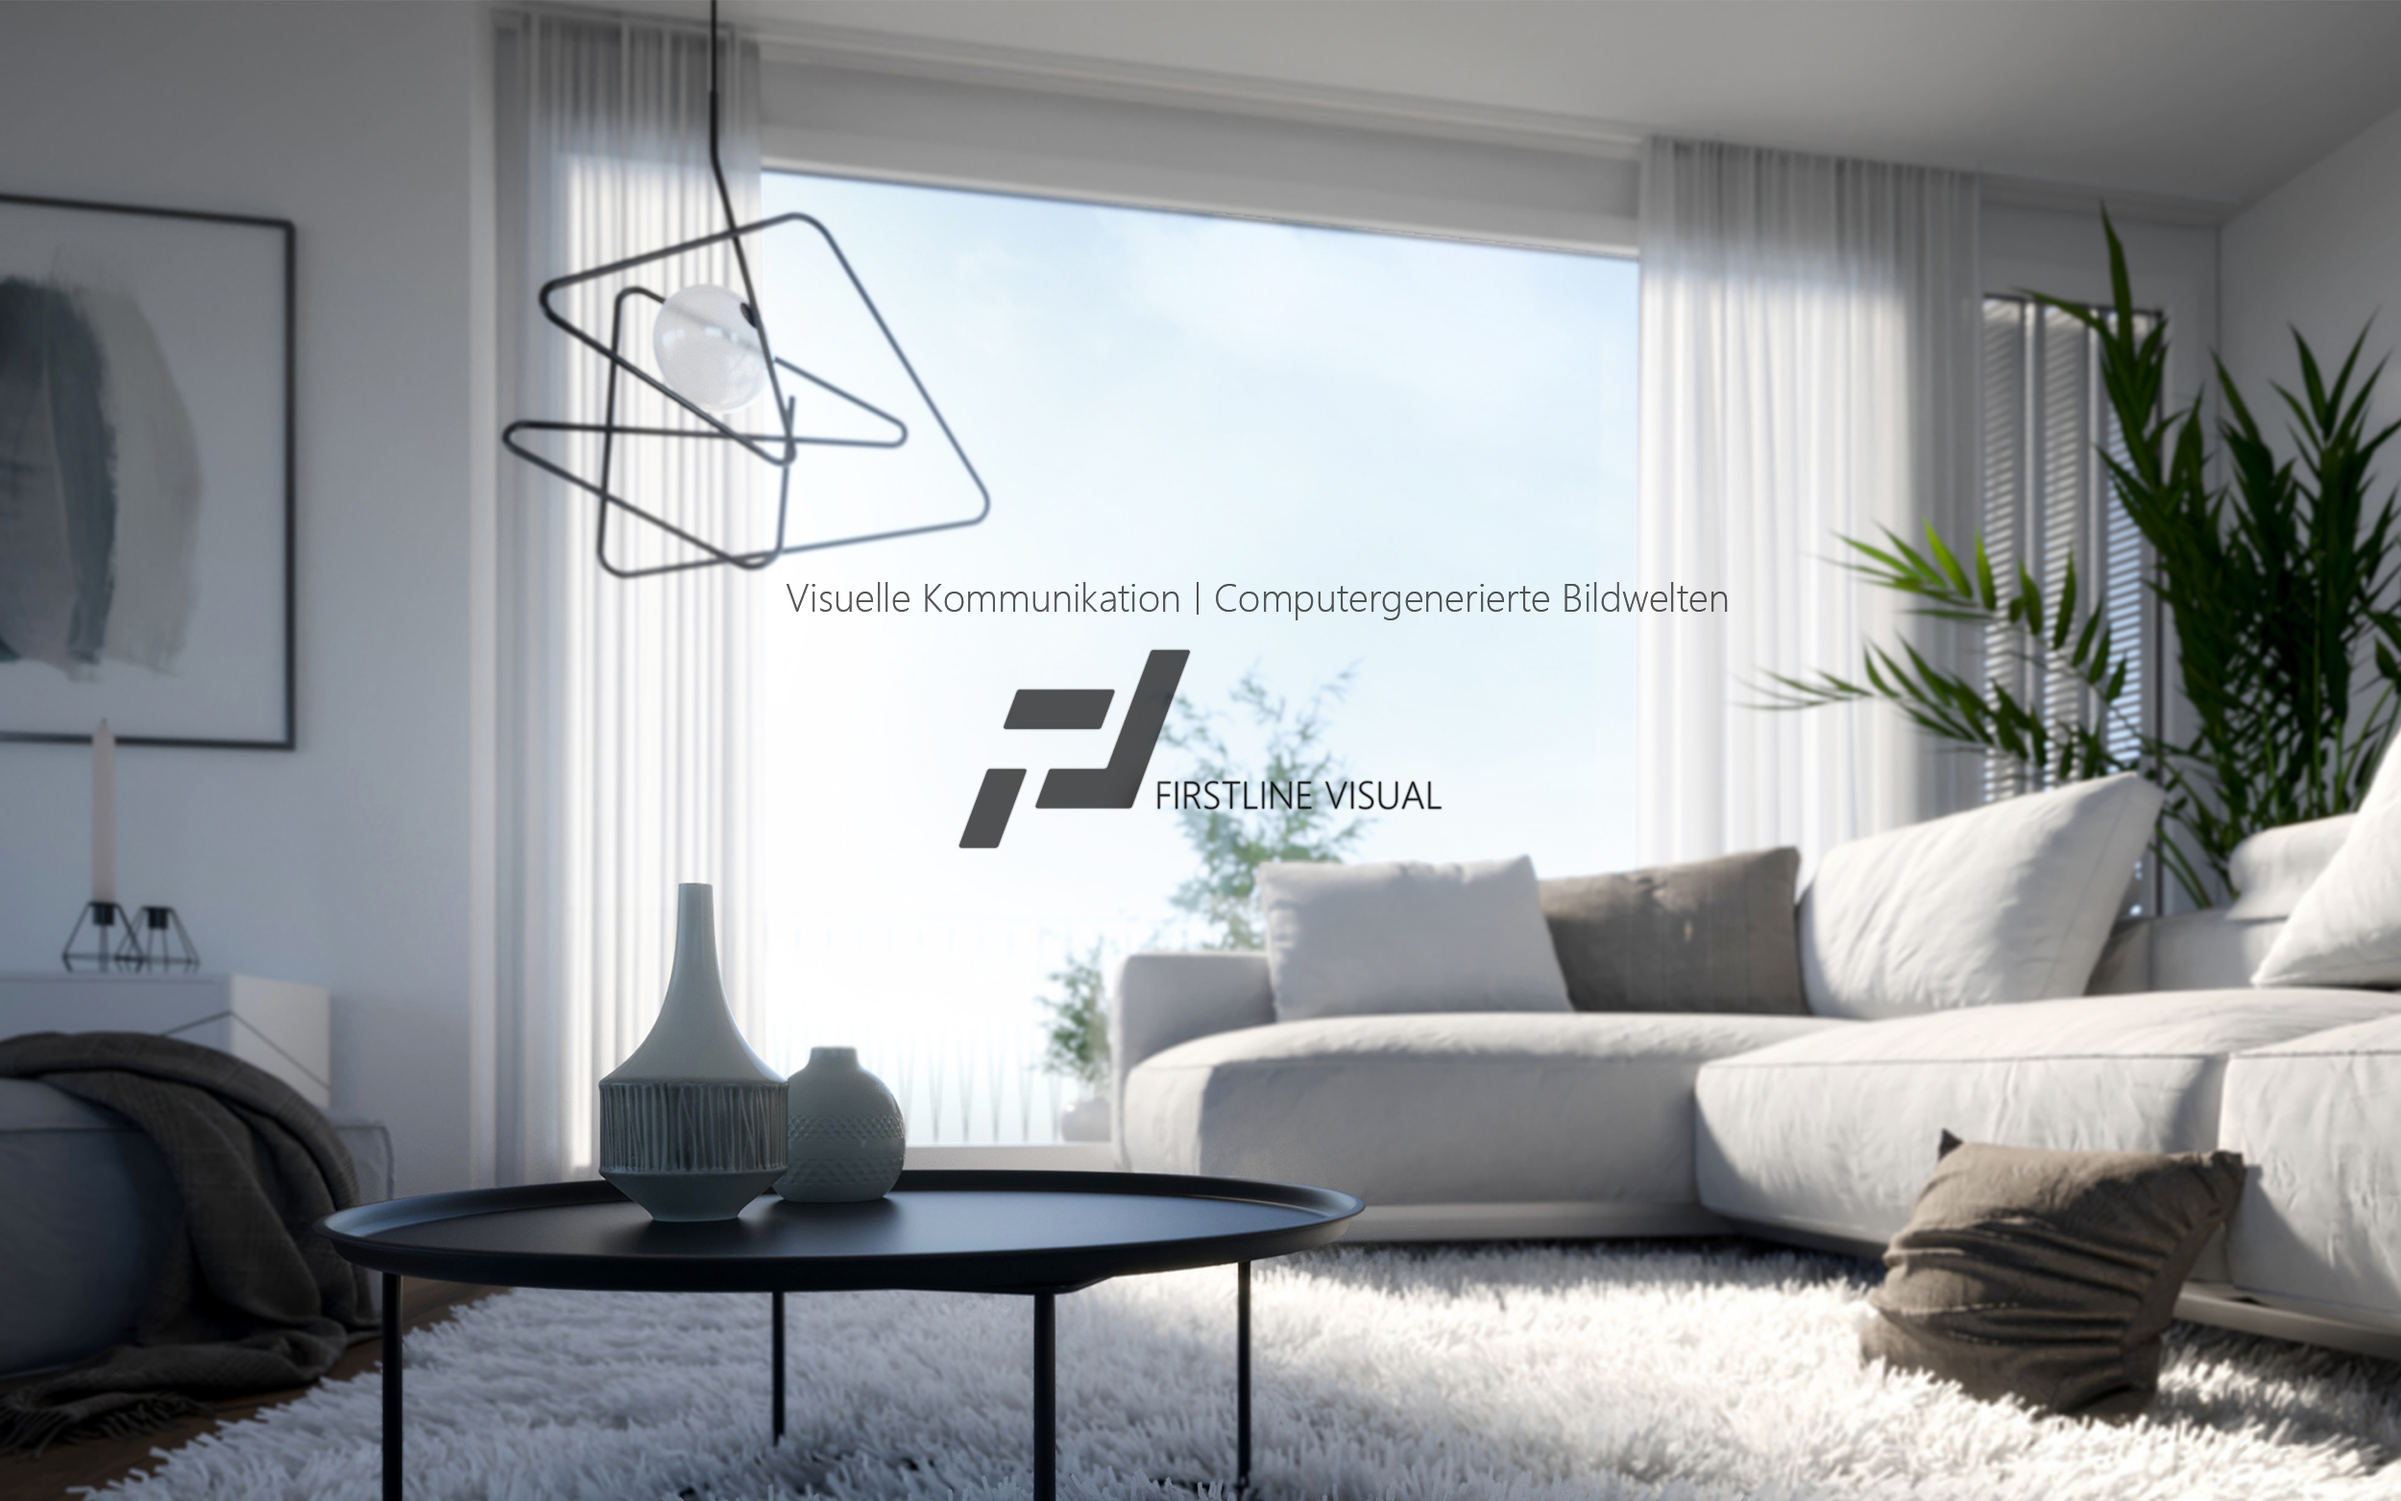
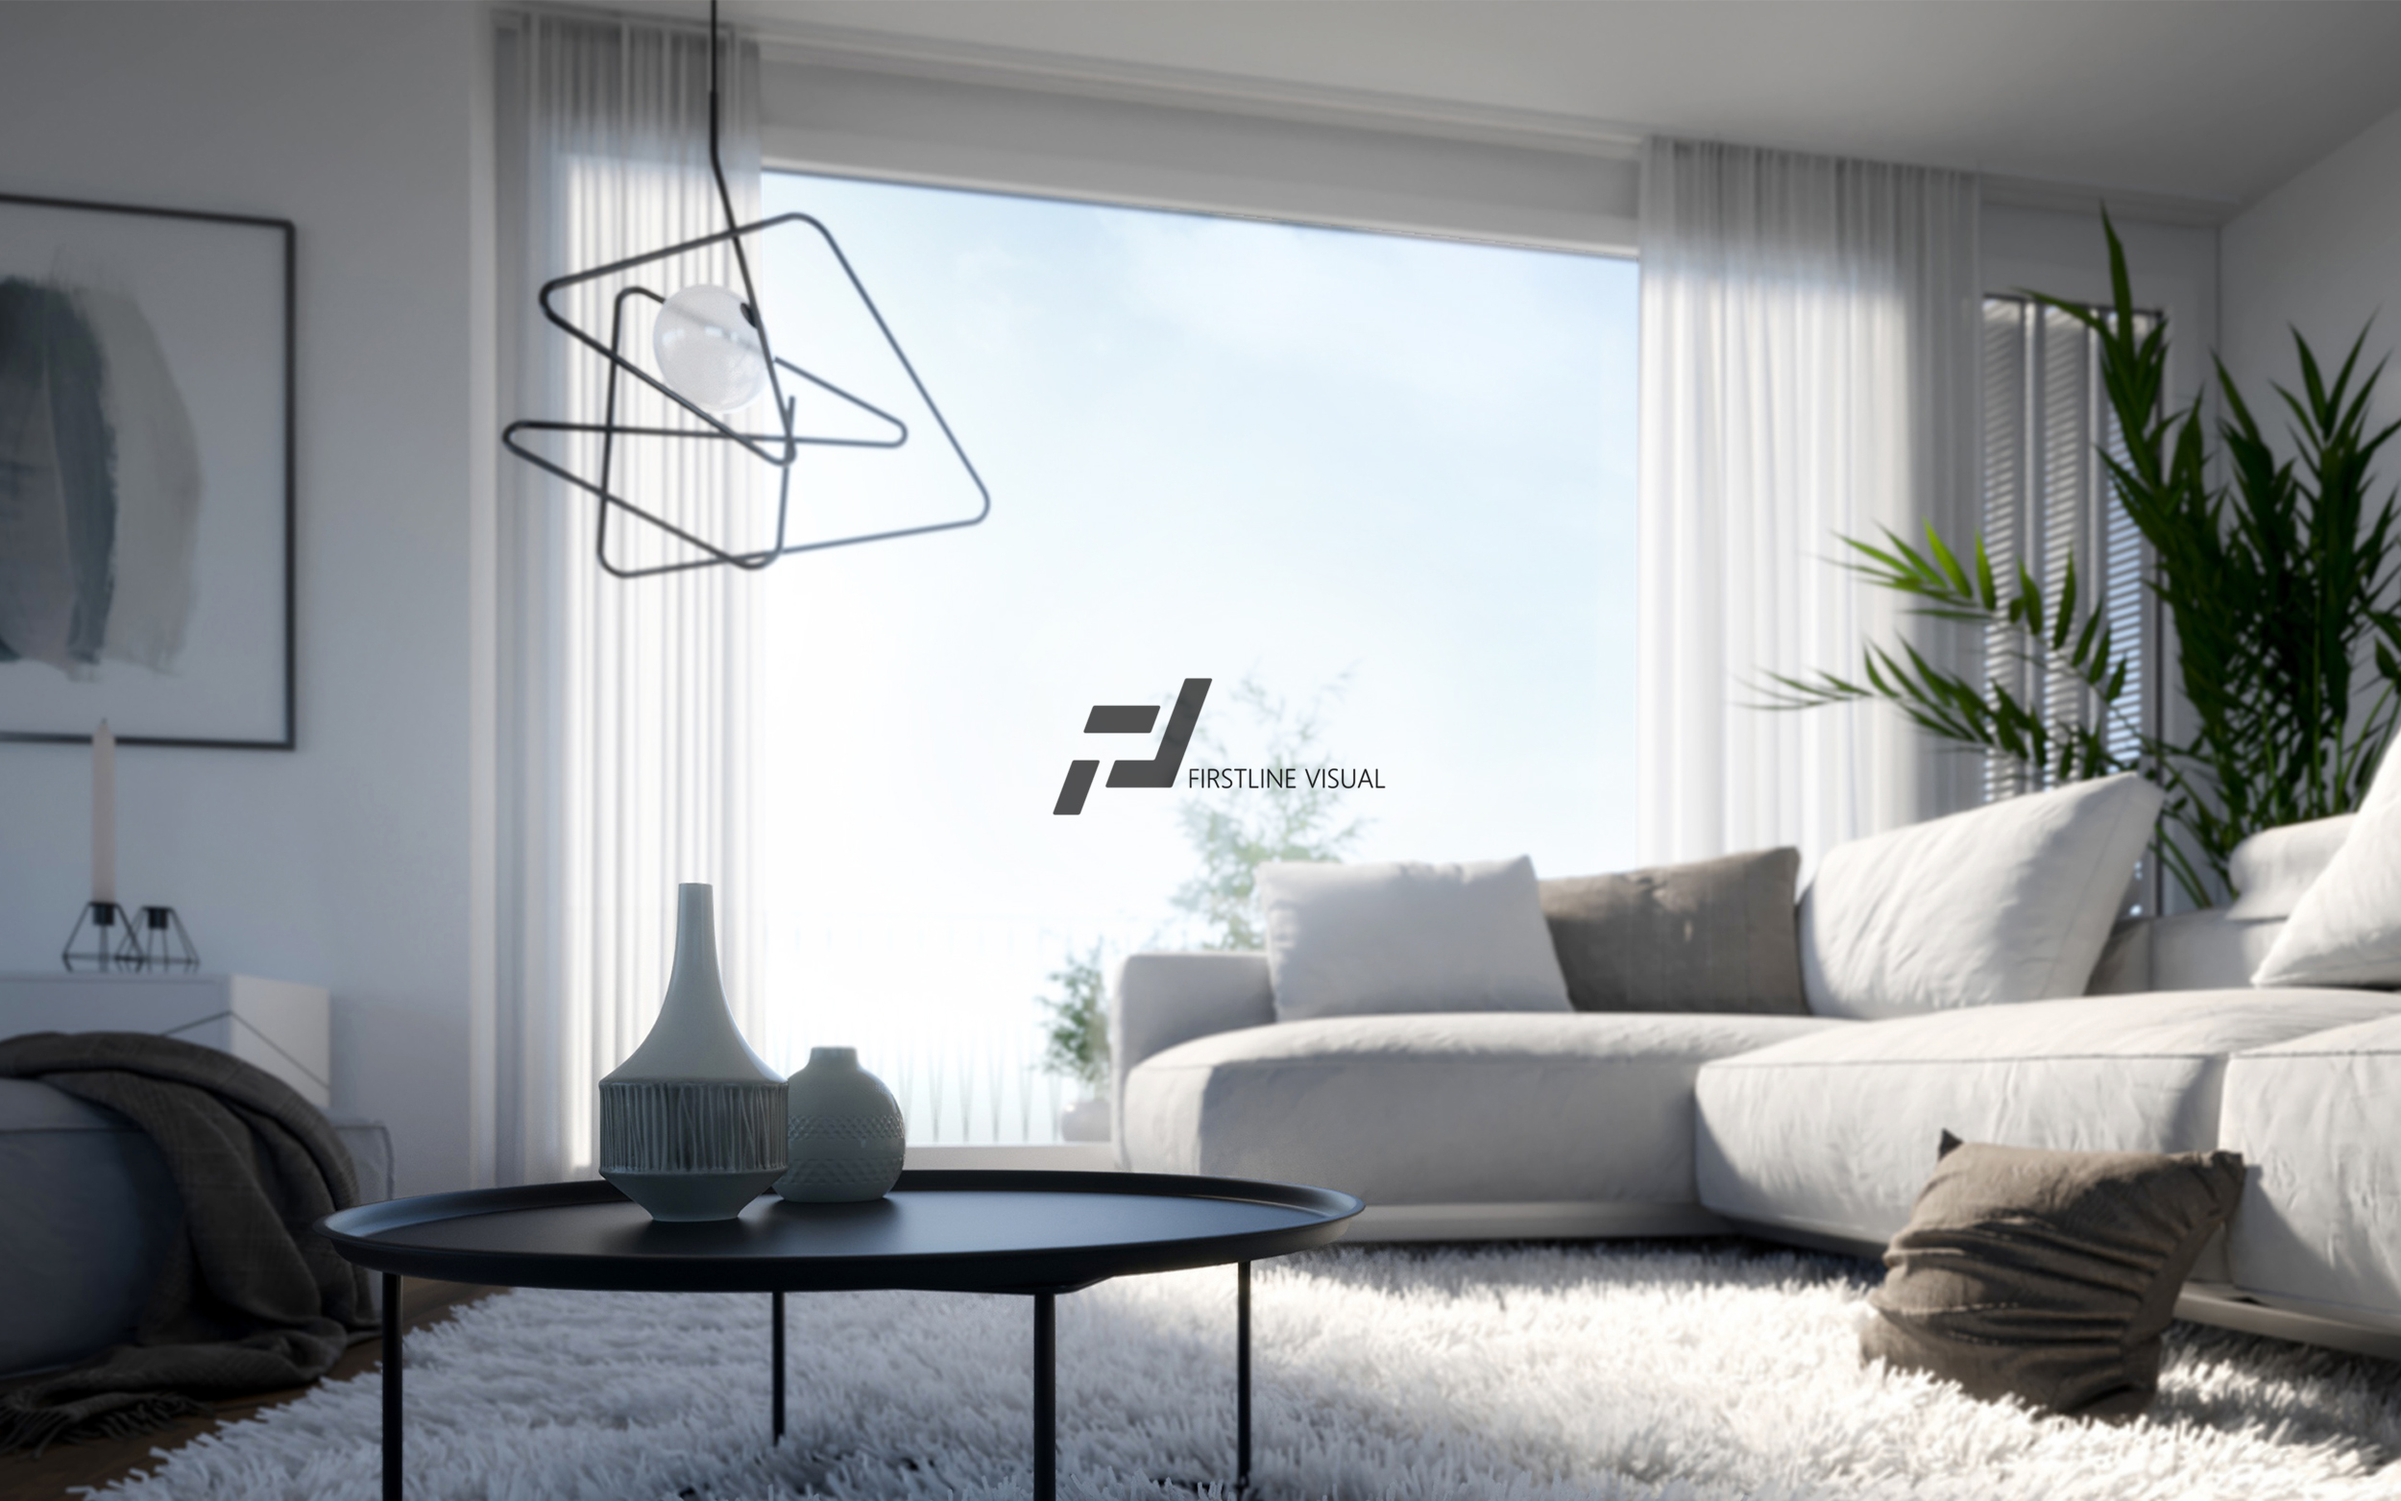
e
e

Changed region(s): [[0.4056, 0.4299, 0.5928, 0.6142], [0.5616, 0.3992, 0.5928, 0.4299]]

diff --git a/index.html b/index.html
@@ -114,19 +114,29 @@
 	<div class="apo-page" >
 	
 	
+	
+	
+	
+	
+	
+	
+	
     
       <div class="rev_slider_wrapper" >
 	  	    
 	  
         <div id="rev-slider-1" class="rev_slider  apo-revslider-theme" >
           <ul>
-           <li data-transition="fade" data-speed="1000" data-interval="5000">   <img src="images/img-1463B.jpg" alt=""/>  
-			  			 		  			  			  
-			  </li>  
+         
+
+    <li data-transition="fade" data-speed="1000" >   <img src="images/img-1463C.jpg" alt=""/>   </li>  		   
+		   
+		   
 		      
 		   
               <li data-transition="fade" data-speed="1000">   <img src="images/img-1543.jpg" alt=""/>  
-			  			 		  			  			  
+			  			
+						
 			  </li>  
      	   	 			
 			   <li data-transition="fade" data-speed="1000"><img src="images/img-1453.jpg" alt=""/></li>						
